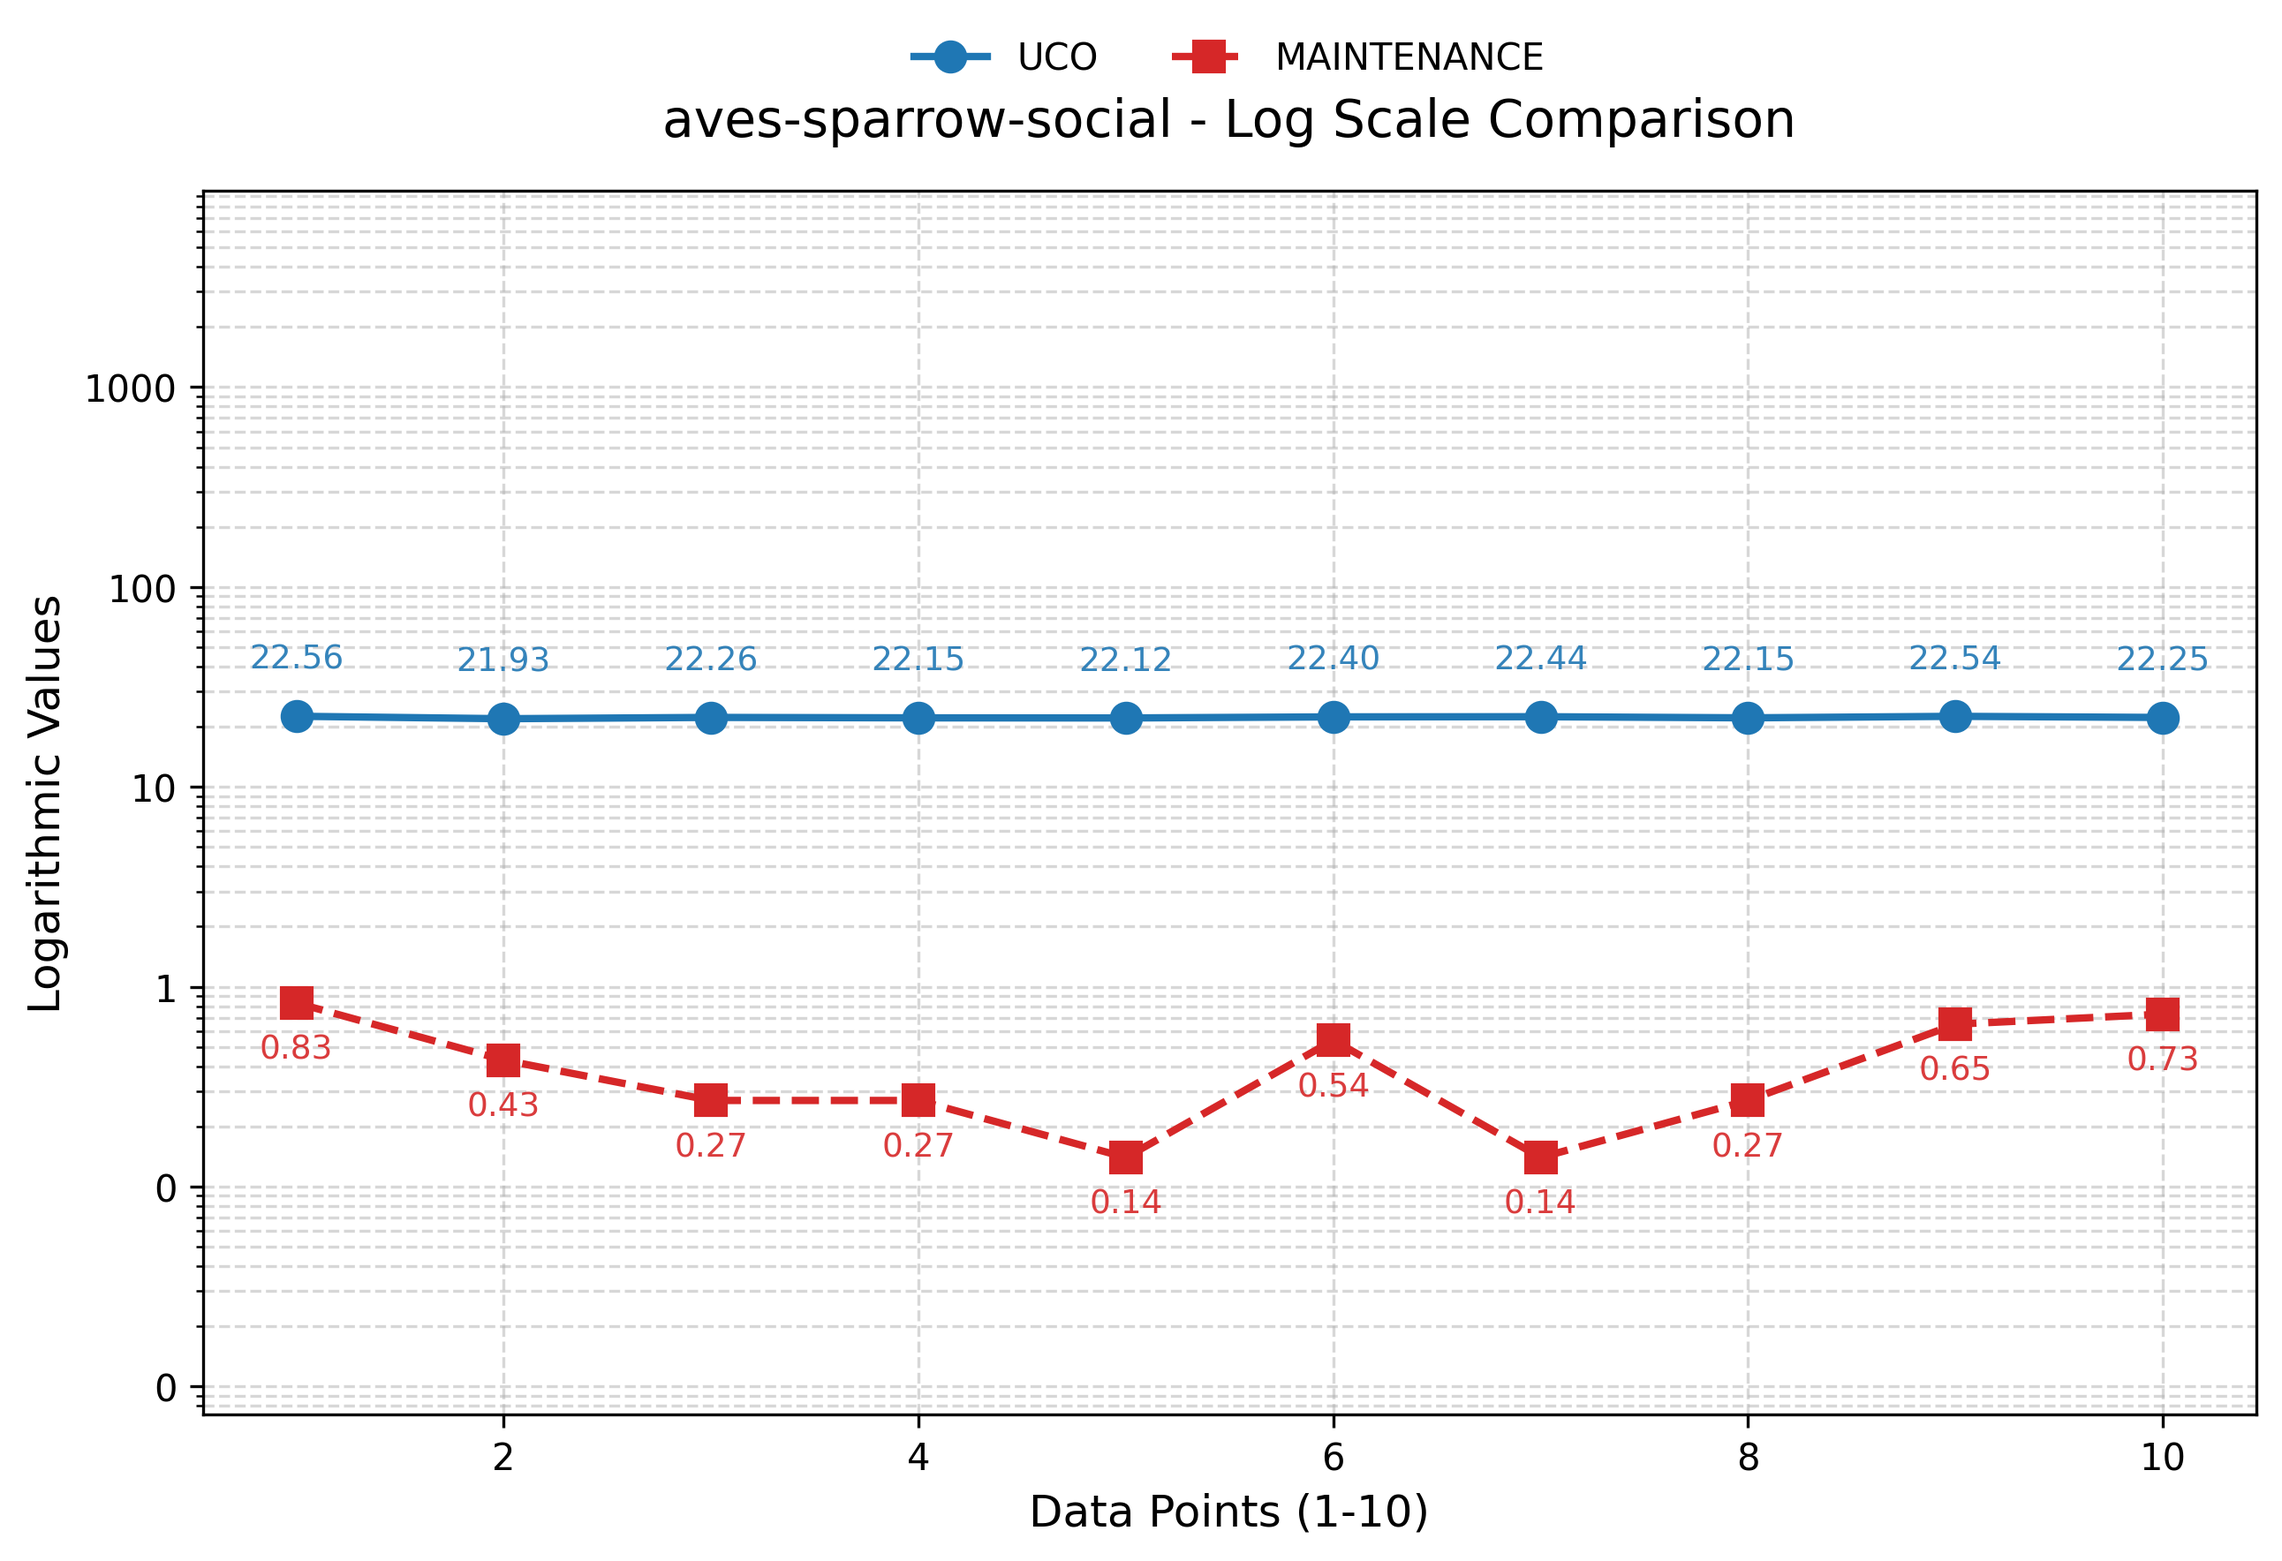
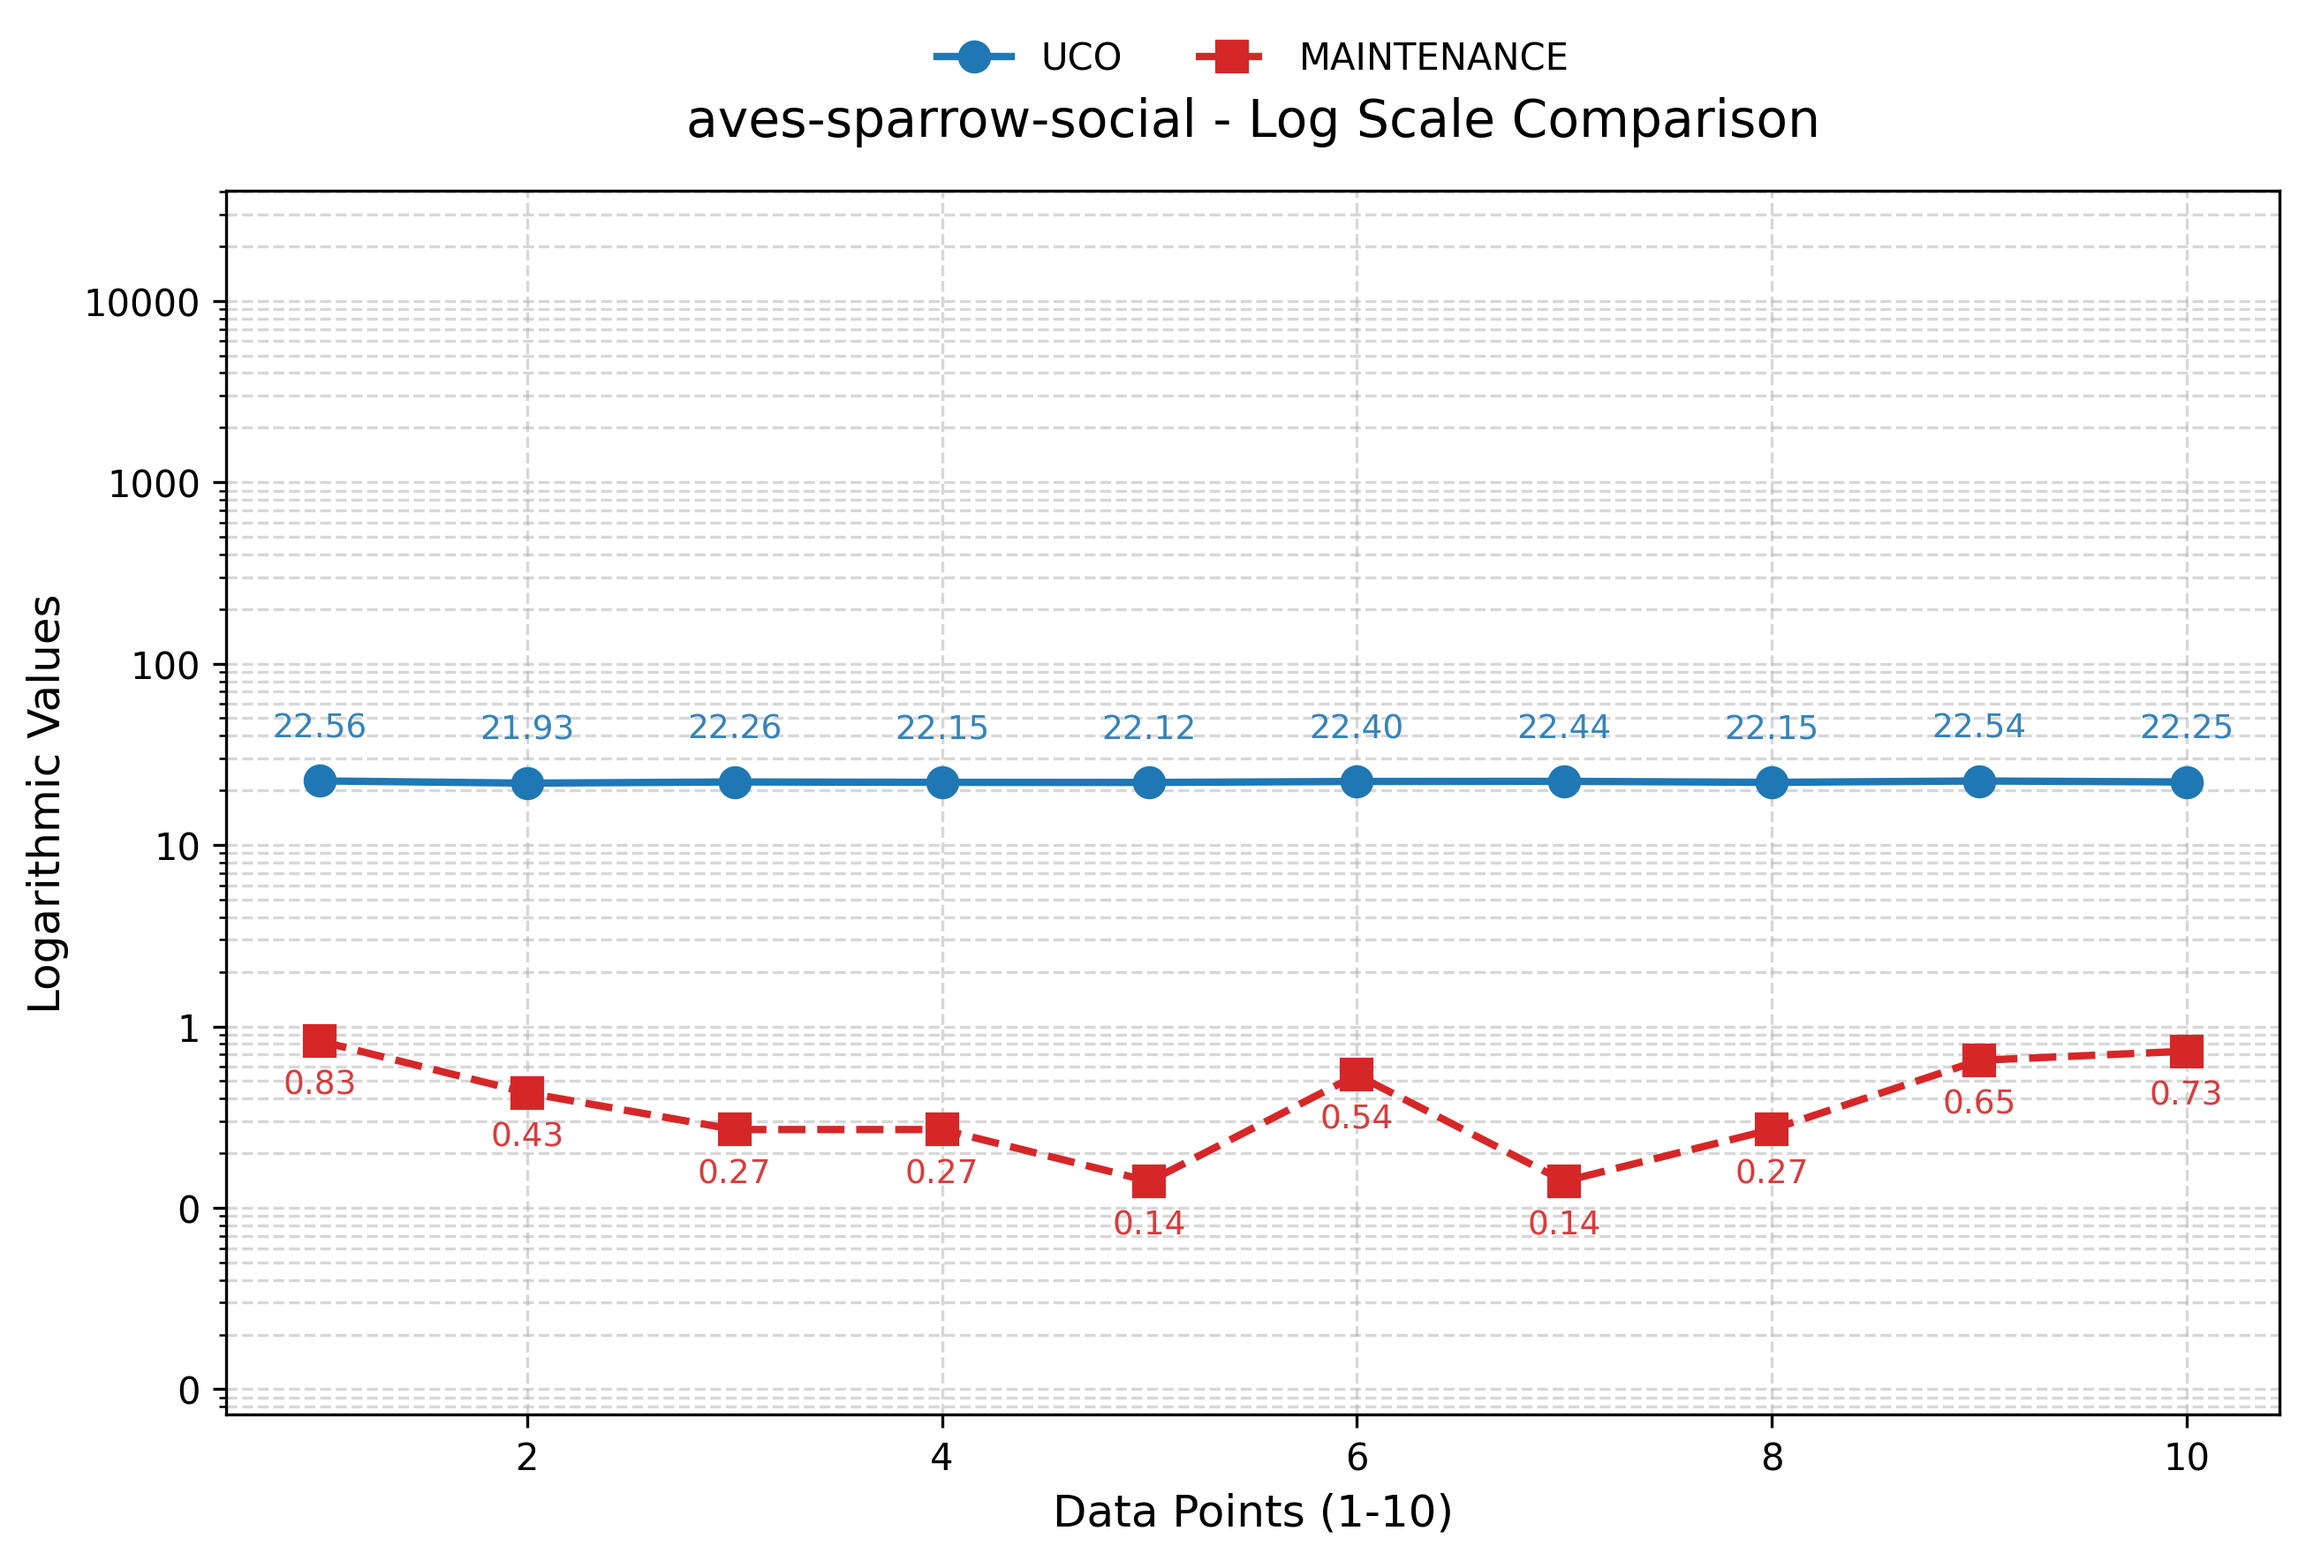
feat: add test data

Changed region(s): [[0.031, 0.1244, 0.9907, 0.9333], [0.2786, 0.0311, 0.805, 0.0933], [0.4334, 0.9333, 0.6502, 0.9955]]

diff --git a/UCO/UCO.py b/UCO/UCO.py
@@ -14,6 +14,7 @@ def UCO_Index(graph: List[List[float]], filename: str = 'default'):
     is_end = False
     while not is_end:
         k += 1
+        print('cal k =', k)
         is_end = True
         temp_map = copy.deepcopy(graph)
         cur_thres = 0
@@ -113,16 +114,20 @@ def print_res(index: List[List[int]]):
 
 
 if __name__ == '__main__':
-    graph = [
-        [.0, .5, .2, .0, .0, .0, .0, .0, .0, .0],
-        [.5, .0, .8, .2, .6, .0, .0, .0, .0, .0],
-        [.2, .8, .0, .5, .8, .0, .0, .0, .0, .0],
-        [.0, .2, .5, .0, .4, .0, .0, .0, .0, .0],
-        [.0, .6, .8, .4, .0, .2, .0, .0, .0, .0],
-        [.0, .0, .0, .0, .2, .0, .5, .0, .0, .0],
-        [.0, .0, .0, .0, .0, .5, .0, .8, .5, .8],
-        [.0, .0, .0, .0, .0, .0, .8, .0, .0, .0],
-        [.0, .0, .0, .0, .0, .0, .5, .0, .0, .8],
-        [.0, .0, .0, .0, .0, .0, .8, .0, .8, .0],
-    ]
+    # graph = [
+    #     [.0, .5, .2, .0, .0, .0, .0, .0, .0, .0],
+    #     [.5, .0, .8, .2, .6, .0, .0, .0, .0, .0],
+    #     [.2, .8, .0, .5, .8, .0, .0, .0, .0, .0],
+    #     [.0, .2, .5, .0, .4, .0, .0, .0, .0, .0],
+    #     [.0, .6, .8, .4, .0, .2, .0, .0, .0, .0],
+    #     [.0, .0, .0, .0, .2, .0, .5, .0, .0, .0],
+    #     [.0, .0, .0, .0, .0, .5, .0, .8, .5, .8],
+    #     [.0, .0, .0, .0, .0, .0, .8, .0, .0, .0],
+    #     [.0, .0, .0, .0, .0, .0, .5, .0, .0, .8],
+    #     [.0, .0, .0, .0, .0, .0, .8, .0, .8, .0],
+    # ]
+    graph = [[.0, .6, .8, .0,],
+             [.6, .0, .8, .4],
+             [.8, .8, .0, .8],
+             [.0, .4, .8, .0]]
     print_res(UCO_Index(graph))

diff --git a/UCO/file/draw_plot.py b/UCO/file/draw_plot.py
@@ -16,10 +16,10 @@ def format_value(y):
         return f"{y:.2f}" if y != int(y) else f"{int(y)}"
 
 
-with open("workdata.csv") as f:
+with open("uctdata.csv") as f:
     df = pd.read_csv(f, skipinitialspace=True)
 
-    output_dir = "dataset_plots"
+    output_dir = "uct_dataset_plots"
     os.makedirs(output_dir, exist_ok=True)
     df = df.dropna(axis=1, how='all')
 
@@ -32,7 +32,8 @@ with open("workdata.csv") as f:
     for dataset in datasets:
         # 筛选数据
         subset = df[df['DATASET'] == dataset]
-        uco = subset[subset['LABEL'] == 'UCO'].iloc[0, 2:].astype(float)
+        # print(subset['LABEL'])
+        uco = subset[subset['LABEL'] == 'UCT'].iloc[0, 2:].astype(float)
         maint = subset[subset['LABEL'] == 'MAINTENANCE'].iloc[0, 2:].astype(float)
         
         # 创建画布
@@ -40,7 +41,7 @@ with open("workdata.csv") as f:
 
         uco_line = ax.semilogy(uco.index.astype(int), uco, 
                           marker='o', linestyle='-', linewidth=2, 
-                          color='tab:blue', label='UCO', markersize=8)
+                          color='tab:blue', label='UCT', markersize=8)
         maint_line = ax.semilogy(maint.index.astype(int), maint, 
                             marker='s', linestyle='--', linewidth=2,
                             color='tab:red', label='MAINTENANCE', markersize=8)

diff --git a/UCO/maintanence.py b/UCO/maintanence.py
@@ -227,11 +227,11 @@ def reorg_heap(heap: List[List[float]], k_core: int):
 @wrapper
 def core_maintenance(k_core, origin_heap, changed_points, graph, filename = 'unknown'):
     final_index = []
-    for j in range(4):
-        now = time.time()
-        for i in range(1, k_core + 1):
-            final_index.append(cal_k_probs_when_inserting(graph, origin_heap, i, changed_points, j))
-        logging.info(f"{filename} filter: {j} Cost Time: {time.time() - now}")
+    # for j in range(4):
+    # now = time.time()
+    for i in range(1, k_core + 1):
+        final_index.append(cal_k_probs_when_inserting(graph, origin_heap, i, changed_points, 0))
+    # logging.info(f"{filename} filter: {j} Cost Time: {time.time() - now}")
 
     return final_index
 
@@ -255,11 +255,11 @@ def cal_files(filename):
 
 
 def main():
-    files = ['rajat05.mtx', 'chesapeake.mtx.convert', 'inf-euroroad.edges.convert']
+    files = ['bio-CE-CX.edges']
     # files = ['aves-geese-female-foraging.edges']
-    with ProcessPoolExecutor(max_workers=10) as executor:
-        executor.map(cal_files, files)
-    # cal_files(files[0])
+    # with ProcessPoolExecutor(max_workers=10) as executor:
+    #     executor.map(cal_files, files)
+    cal_files(files[0])
 
 
 if __name__ == '__main__':

diff --git a/UCO/read_file.py b/UCO/read_file.py
@@ -15,7 +15,8 @@ def read_file(path: str):
             info = line.split(" ")
             assert (len(info) >= 3 or info[1] == info[2]), "file's format is incorrect."
             v1, v2, prob = int(info[0]), int(info[1]), float(info[2])
-
+            if v1 >= 8000 or v2 >= 8000:
+                continue
             max_prob = max(max_prob, prob)
             max_index = max(max_index, max(v1, v2))
             index.append([v1, v2, prob])
@@ -27,8 +28,8 @@ def construct_map(index: List[List[int]], max_prob: float, max_index: int):
     maps = [[0 for _ in range(max_index)] for _ in range(max_index)]
     for i in index:
         v1, v2, prob = i[0], i[1], i[2]
-        # if random.random() < 0.8:
-        #     prob = 0
+        if not 0.77 < random.random() < 0.82:
+            prob = 0
         maps[v1][v2] = prob / max_prob
         maps[v2][v1] = prob / max_prob
 
@@ -38,4 +39,5 @@ def construct_map(index: List[List[int]], max_prob: float, max_index: int):
 def pipeline_read_data(filename: str) -> List[List[float]]:
     path = os.path.join(DATA_PATH, filename)
     index, max_prob, max_index = read_file(path)
+    print(f"read {filename} data done.")
     return construct_map(index, max_prob, max_index)

diff --git a/UCO/tree_maintenance.py b/UCO/tree_maintenance.py
@@ -1,0 +1,7 @@
+from typing import List
+from tree_construct import TreeNode
+
+
+def tree_maintenance(root: TreeNode, changed_vertex: List[List[int]]):
+    pass
+
